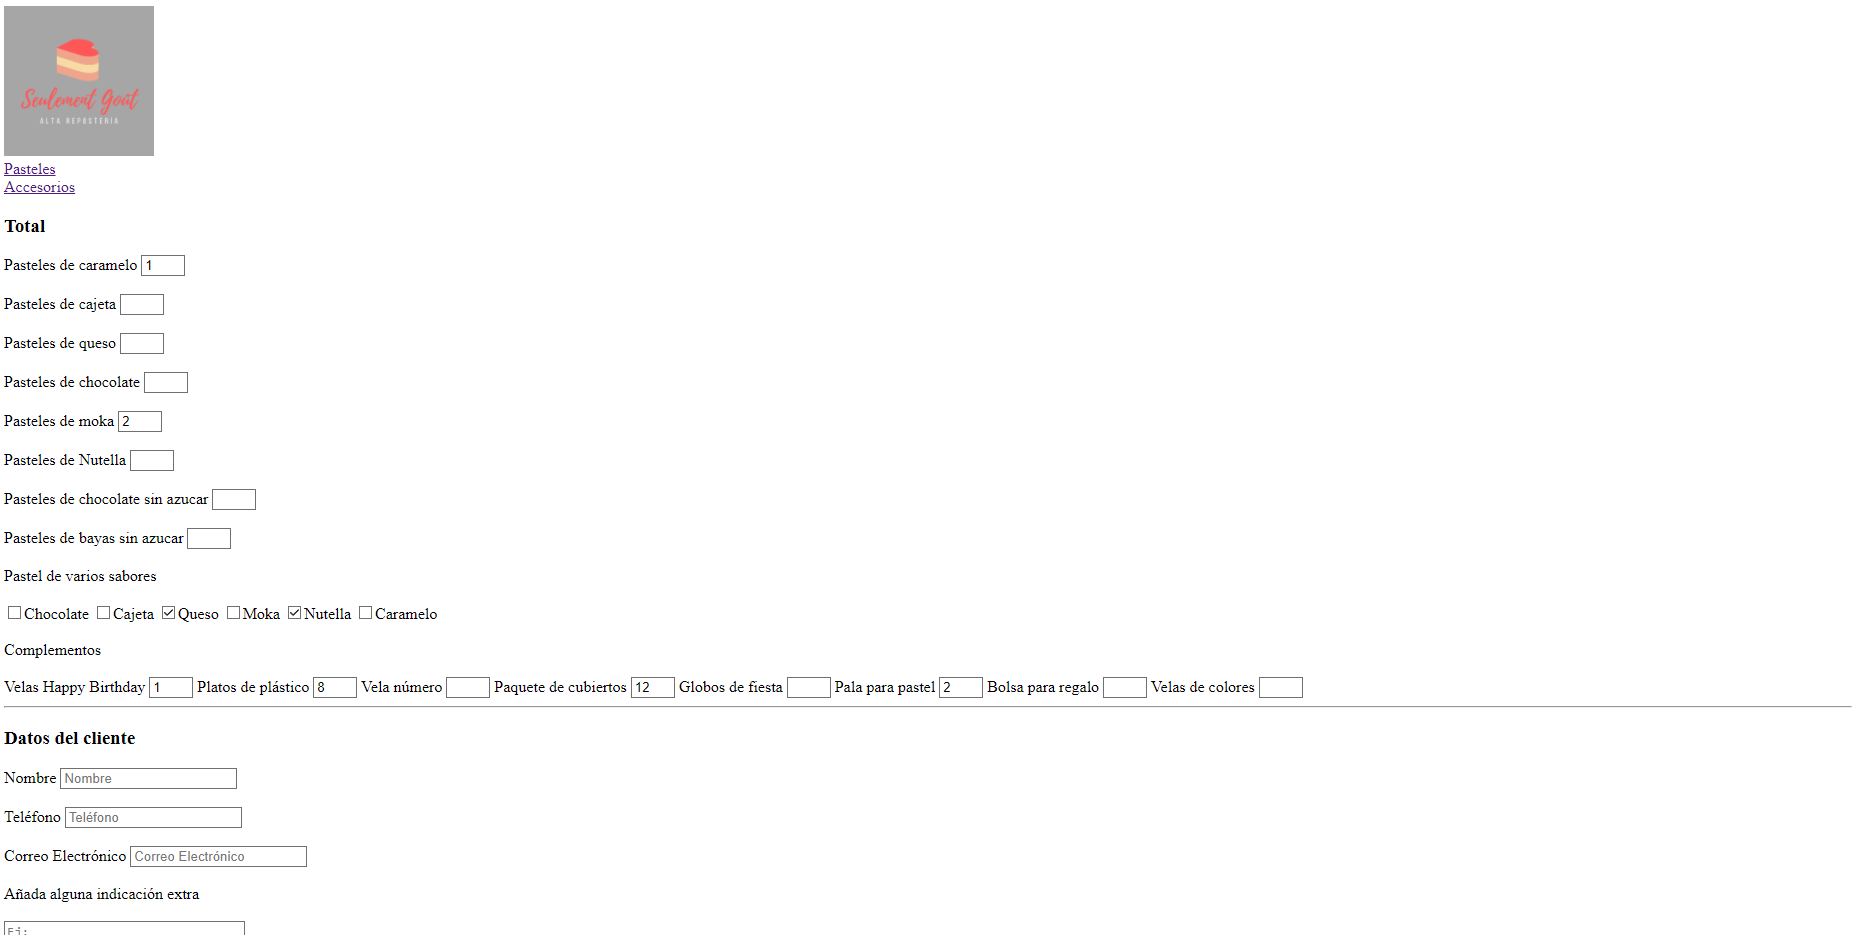
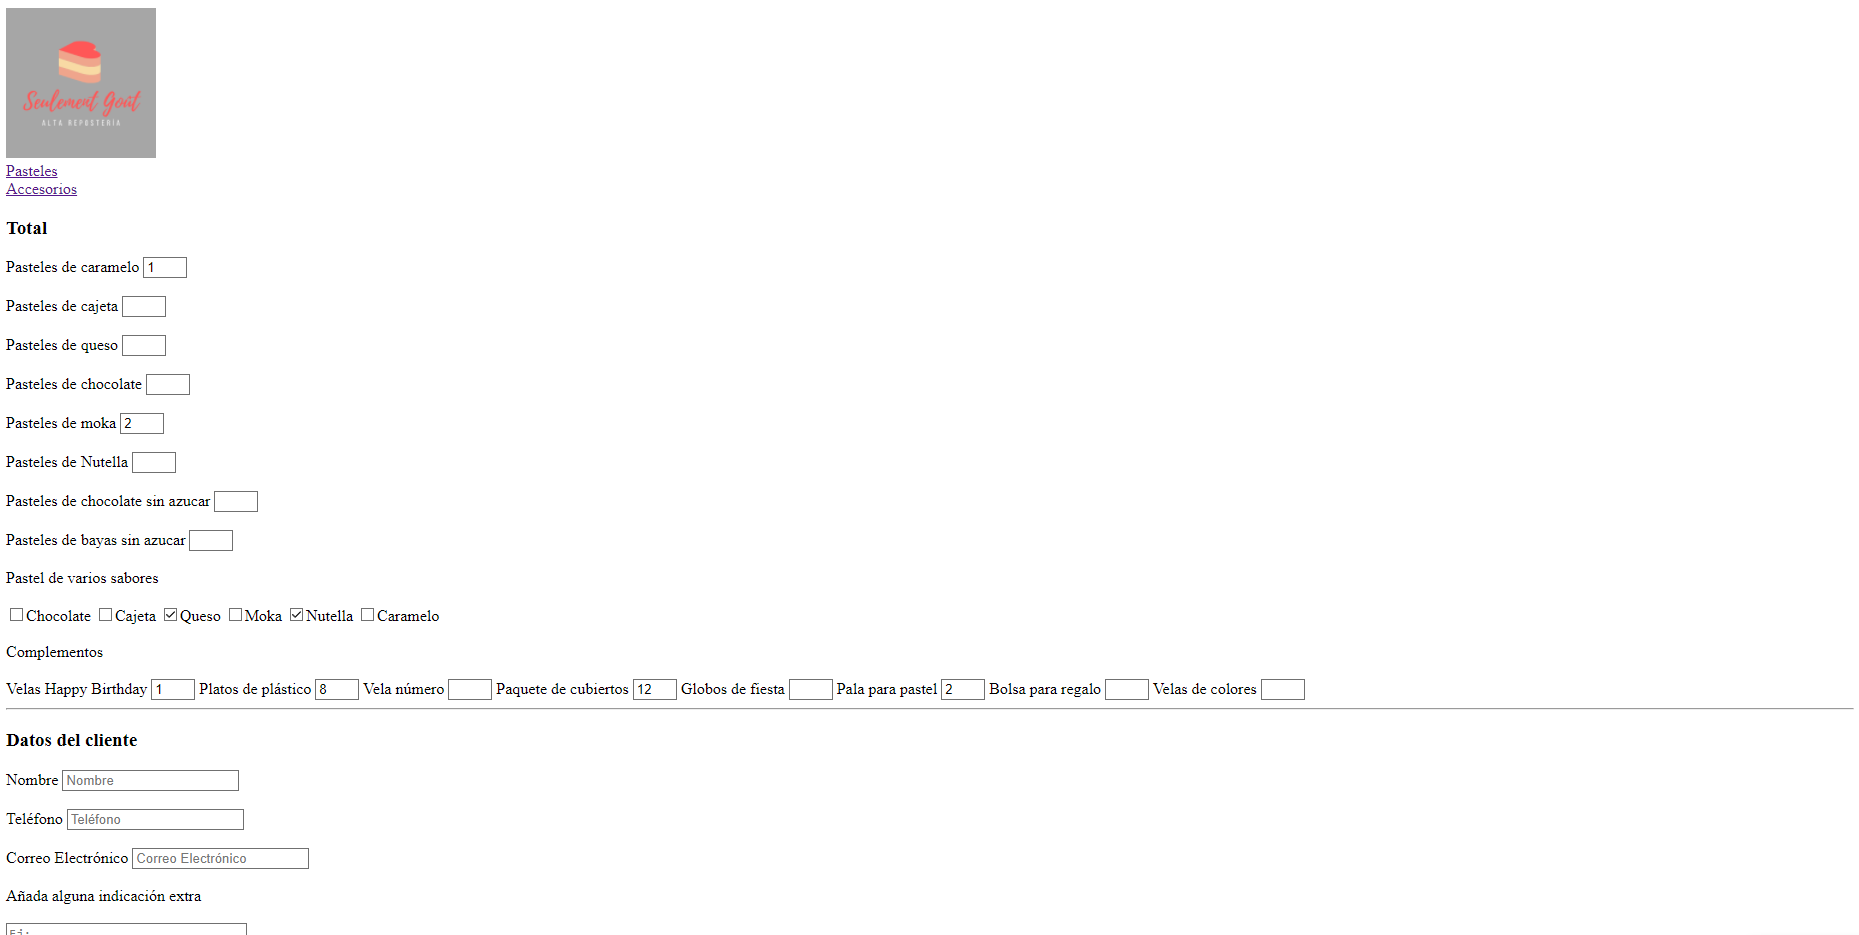
File changes

diff --git a/FrontEnd/Semana 1/Pasteleria/Cart/form.html b/FrontEnd/Semana 1/Pasteleria/Cart/form.html
@@ -48,7 +48,8 @@
         <label for="phone">Teléfono</label> <input id="phone" type="text" placeholder="Teléfono"><br><br>
         <label for="email">Correo Electrónico</label> <input id="email" type="email" placeholder="Correo Electrónico"><br><br>
         <label for="description">Añada alguna indicación extra</label><br><br>
-        <textarea name="description" id="description" cols="30" rows="10" placeholder="Ej:&#10;&#10;Quiero que el pastel ya tenga las velas puestas.&#10;&#10;Quiero que el pastel tenga escrito el mensaje:###"></textarea><br>
+        <textarea name="description" id="description" cols="30" rows="10" placeholder="Ej:&#10;&#10;Quiero que el pastel ya tenga las velas puestas.&#10;&#10;Quiero que el pastel tenga escrito el mensaje:###"></textarea><br><br>
+        <input type="submit" value="Realizar pedido">
     </form> 
     
     <br><br><br><br><br>
